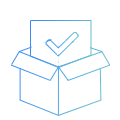
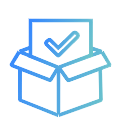
S[9:14] q notify popup UI redesign | fix svgs

Changed region(s): [[0.075, 0.15, 0.95, 0.975]]

diff --git a/src/shared/notifications.helper.ts b/src/shared/notifications.helper.ts
@@ -1,0 +1,109 @@
+import { NOTIFICATION_CODES, NotificationSettingCodeEnum, TXN_STATUS } from './models/entities/notifications.model';
+import { GetCurrencyLabel } from './currency.helper';
+
+export class NotificationsHelper {
+  GetTransactionType(code: NOTIFICATION_CODES, status: TXN_STATUS) {
+    return `${code}:${status}`;
+  }
+
+  GetTransactionLinkName(code: NOTIFICATION_CODES) {
+    if (
+      code == NOTIFICATION_CODES.LISTING_CREATED ||
+      code == NOTIFICATION_CODES.LISTING_REMOVED ||
+      code == NOTIFICATION_CODES.OFFER_CREATED ||
+      code == NOTIFICATION_CODES.OFFER_RECEIVED ||
+      code == NOTIFICATION_CODES.OFFER_REMOVED ||
+      code == NOTIFICATION_CODES.OFFER_OUTBID
+    ) {
+      return 'See NFT';
+    }
+    // code == NOTIFICATION_CODES.LISTING_PURCHASED_NEW_OWNER ||
+    // code == NOTIFICATION_CODES.LISTING_PURCHASED_OLD_OWNER ||
+    // code == NOTIFICATION_CODES.OFFER_ACCEPTED_NEW_OWNER ||
+    // code == NOTIFICATION_CODES.OFFER_ACCEPTED_OLD_OWNER
+    return 'See TXN'
+  }
+
+  GetNotificationIcon(code: NOTIFICATION_CODES) {
+    switch (code) {
+      case NOTIFICATION_CODES.LISTING_CREATED:
+        return 'app:listing-notif';
+      case NOTIFICATION_CODES.OFFER_CREATED:
+        return 'app:offer-notif';
+      case NOTIFICATION_CODES.LISTING_REMOVED:
+        return 'app:unlist-notif';
+      case NOTIFICATION_CODES.OFFER_REMOVED:
+        return 'app:revoke-offer-notif';
+      case NOTIFICATION_CODES.OFFER_RECEIVED:
+        return 'app:receive-offer-notif';
+      case NOTIFICATION_CODES.OFFER_OUTBID:
+        return 'app:offer-notif';
+      case NOTIFICATION_CODES.OFFER_ACCEPTED_NEW_OWNER:
+        return 'app:receive-nft-notif';
+      case NOTIFICATION_CODES.OFFER_ACCEPTED_OLD_OWNER:
+        return 'app:offer-accepted-notif';
+      case NOTIFICATION_CODES.LISTING_PURCHASED_NEW_OWNER:
+        return 'app:receive-nft-notif';
+      case NOTIFICATION_CODES.LISTING_PURCHASED_OLD_OWNER:
+        return 'app:listing-purchased-notif';
+    }
+  }
+
+  GetTransactionNotificationMessage(code: NOTIFICATION_CODES, status: TXN_STATUS, orderPrice: string, orderCurrency: string, brand: string) : string | undefined {
+    const type = this.GetTransactionType(code, status);
+    // this orderType for generating messages is only applicable for new orders
+    const orderType = code == NOTIFICATION_CODES.LISTING_CREATED ? 'listing' : 'offer';
+    const orderCurrencyLabel = GetCurrencyLabel(orderCurrency);
+    if (
+      type == NotificationSettingCodeEnum.LISTING_CREATED_PENDING ||
+      type == NotificationSettingCodeEnum.OFFER_CREATED_PENDING
+    ) {
+      return `Your ${orderType} of ${orderPrice} ${orderCurrencyLabel} for ${brand} is on its way!`
+    } else if (
+      type == NotificationSettingCodeEnum.LISTING_CREATED_CANCELLED ||
+      type == NotificationSettingCodeEnum.OFFER_CREATED_CANCELLED
+    ) {
+      return `You have cancelled your ${orderType} of ${orderPrice} ${orderCurrencyLabel} for ${brand}.`
+    } else if (
+      type == NotificationSettingCodeEnum.LISTING_CREATED_COMPLETED ||
+      type == NotificationSettingCodeEnum.OFFER_CREATED_COMPLETED
+    ) {
+      return `Your ${orderType} of ${orderPrice} ${orderCurrencyLabel} for ${brand} is live!`
+    } else if (
+      type == NotificationSettingCodeEnum.LISTING_CREATED_ERROR ||
+      type == NotificationSettingCodeEnum.OFFER_CREATED_ERROR
+    ) {
+      return `There was a problem with your ${orderType} of ${orderPrice} ${orderCurrencyLabel} for ${brand}.`
+    } else if (type == NotificationSettingCodeEnum.OFFER_RECEIVED) {
+      return `You have received an offer of ${orderPrice} ${orderCurrencyLabel} for ${brand}!`
+    } else if (type == NotificationSettingCodeEnum.LISTING_PURCHASED_OLD_OWNER) {
+      return `Your listing for ${brand} has been successfully purchased! You have received ${orderPrice} ${orderCurrencyLabel}.`
+    } else if (type == NotificationSettingCodeEnum.LISTING_PURCHASED_NEW_OWNER) {
+      return `You have successfully purchased ${brand} for ${orderPrice} ${orderCurrencyLabel}.`
+    } else if (type == NotificationSettingCodeEnum.LISTING_PURCHASED_ERROR) {
+      return `There was a problem with your purchase for ${brand} of ${orderPrice} ${orderCurrencyLabel}.`
+    } else if (type == NotificationSettingCodeEnum.OFFER_ACCEPTED_NEW_OWNER) {
+      return `Your offer of ${orderPrice} ${orderCurrencyLabel} for ${brand} has been successfully accepted!`
+    } else if (type == NotificationSettingCodeEnum.OFFER_ACCEPTED_OLD_OWNER) {
+      return `You have successfully accepted an offer for ${brand}. You have received ${orderPrice} ${orderCurrencyLabel}.`
+    } else if (type == NotificationSettingCodeEnum.OFFER_CREATED_ERROR) {
+      return `There was a problem with the offer for ${brand} of ${orderPrice} ${orderCurrencyLabel} that you accepted.`
+    } else if (type == NotificationSettingCodeEnum.REMOVE_LISTING_PENDING) {
+      return `Your listing of ${orderPrice} ${orderCurrencyLabel} for ${brand} is currently being cancelled!`
+    } else if (type == NotificationSettingCodeEnum.REMOVE_OFFER_PENDING) {
+      return `Your offer of ${orderPrice} ${orderCurrencyLabel} for ${brand} is currently being cancelled!`
+    } else if (type == NotificationSettingCodeEnum.REMOVE_LISTING_CANCELLED) {
+      return `You have cancelled your ongoing wine unlisting for ${brand} of ${orderPrice} ${orderCurrencyLabel}`
+    } else if (type == NotificationSettingCodeEnum.REMOVE_OFFER_CANCELLED) {
+      return `You have cancelled your ongoing wine offer withdrawal for ${brand} of ${orderPrice} ${orderCurrencyLabel}`
+    } else if (type == NotificationSettingCodeEnum.REMOVE_LISTING_COMPLETED) {
+      return `Your listing of ${orderPrice} ${orderCurrencyLabel} for ${brand} is removed from the marketplace!`
+    } else if (type == NotificationSettingCodeEnum.REMOVE_OFFER_COMPLETED) {
+      return `Your offer of ${orderPrice} ${orderCurrencyLabel} for ${brand} is removed from the marketplace!`
+    } else if (type == NotificationSettingCodeEnum.REMOVE_LISTING_ERROR) {
+      return `There was a problem with removing your listing of ${orderPrice} ${orderCurrencyLabel} for ${brand}.`
+    } else if (type == NotificationSettingCodeEnum.REMOVE_OFFER_ERROR) {
+      return `There was a problem with withdrawing your wine offer of ${orderPrice} ${orderCurrencyLabel} for ${brand}.`
+    }
+  }
+}

diff --git a/src/shared/notifications-service.ts b/src/shared/notifications-service.ts
@@ -6,11 +6,13 @@ import {
   NOTIFICATION_CODES,
 } from './models/entities/notifications.model';
 import { useNotificationsStore } from 'src/stores/notifications-store';
+import { NotificationsHelper } from './notifications.helper';
+import 'src/css/MainLayout/NotificationsDialog.css';
 
 const userStore = useUserStore();
 const notificationsStore = useNotificationsStore();
+const notificationsHelper = new NotificationsHelper();
 const socketURL = <string>process.env.NOTIFICATIONS_MSVC_URL;
-// const socketURL = 'https://wiv-mkt-notifications-msvc-test.azurewebsites.net/';
 const socket = io(socketURL, {
   query: { walletAddress: userStore.walletAddress },
 });
@@ -44,15 +46,53 @@ const veriffEventListener = (
   });
 };
 
-const transactionEventListener = (
-  notification: ExtendedNotificationModel<'transaction'>
+const TransactionEventManager = (
+  linkName: string,
+  icon: string,
+  message: string,
+  link: string,
+  notifID: string
 ) => {
-  notify({
-    message: `${notification.brand},TXN_STATUS: ${notification.status},CODE: ${notification.code}`,
-    username: userStore.user?.username || '',
-    avatar: userStore.user?.avatar || '',
-  });
+  const clickLink = async (link: string) => {
+    await notificationsStore.updateNotificationAsViewed(notifID);
+    window.location.href = link;
+  }
+  const screenWidth = window.innerWidth;
+  Notify.create({
+    message: message,
+    multiLine: true,
+    icon: icon,
+    actions: [
+      { label: linkName, color: 'primary', handler: () => clickLink(link) }
+    ],
+    badgeStyle: 'opacity: 0',
+    timeout: 2000,
+    iconSize: '50px',
+    classes: 'notification-popup',
+    position: screenWidth <= 600 ? 'top' : undefined
+  })
 };
+
+function TransactionNotifBuilder(incomingNotif: ExtendedNotificationModel<'transaction'>) {
+  const { code, orderPrice, orderCurrency, status, brand, link, _id } = incomingNotif;
+  const linkName = notificationsHelper.GetTransactionLinkName(code);
+  const icon = notificationsHelper.GetNotificationIcon(code);
+  const message = notificationsHelper.GetTransactionNotificationMessage(
+    code,
+    status,
+    <string> orderPrice,
+    <string> orderCurrency,
+    brand
+  );
+
+  TransactionEventManager(
+    linkName,
+    <string> icon,
+    <string> message,
+    <string> link,
+    _id
+  )
+}
 
 socket.onAny((code: string, data: ExtendedNotificationModel<'veriff' | 'transaction'>) => {
   // Check if data is a notification
@@ -63,7 +103,6 @@ socket.onAny((code: string, data: ExtendedNotificationModel<'veriff' | 'transact
     switch (notificationType) {
       case 1:
         // Transaction notification
-        transactionEventListener(<ExtendedNotificationModel<'transaction'>>data);
         const sortKey = notificationsStore.sortKey;
         const filterKey = notificationsStore.filterKey;
         const isSearching = notificationsStore.isSearching;
@@ -83,6 +122,7 @@ socket.onAny((code: string, data: ExtendedNotificationModel<'veriff' | 'transact
             notificationsStore.storedNotifications.unshift(data);
           }
         }
+        TransactionNotifBuilder(<ExtendedNotificationModel<'transaction'>>data);
         break;
       case 2:
         // Veriff notification

diff --git a/src/css/MainLayout/NotificationsDialog.css b/src/css/MainLayout/NotificationsDialog.css
@@ -119,3 +119,29 @@
   background: #212131;
   opacity: 0.8;
 }
+
+.notification-popup {
+  border: 1px solid rgba(94, 151, 236, 0.27);
+  background: rgba(255, 255, 255, 1);
+  min-width: 270px;
+  max-width: 450px;
+  border-radius: 16px;
+  box-shadow: 0px 0px 7px 0px rgba(0, 0, 0, 0.2);
+}
+
+.notification-popup * .q-btn {
+  font-family: 'ProximaNova-Bold';
+  font-size: 18px;
+  line-height: 20px;
+  text-decoration: underline;
+  text-transform: none !important;
+  color: #3586ffd1;
+  cursor: pointer;
+}
+
+div.q-notification__message {
+  font-family: 'ProximaNova-Bold';
+  font-size: 20px;
+  color:rgba(33, 33, 49, 1);
+  line-height: 0.8;
+}
